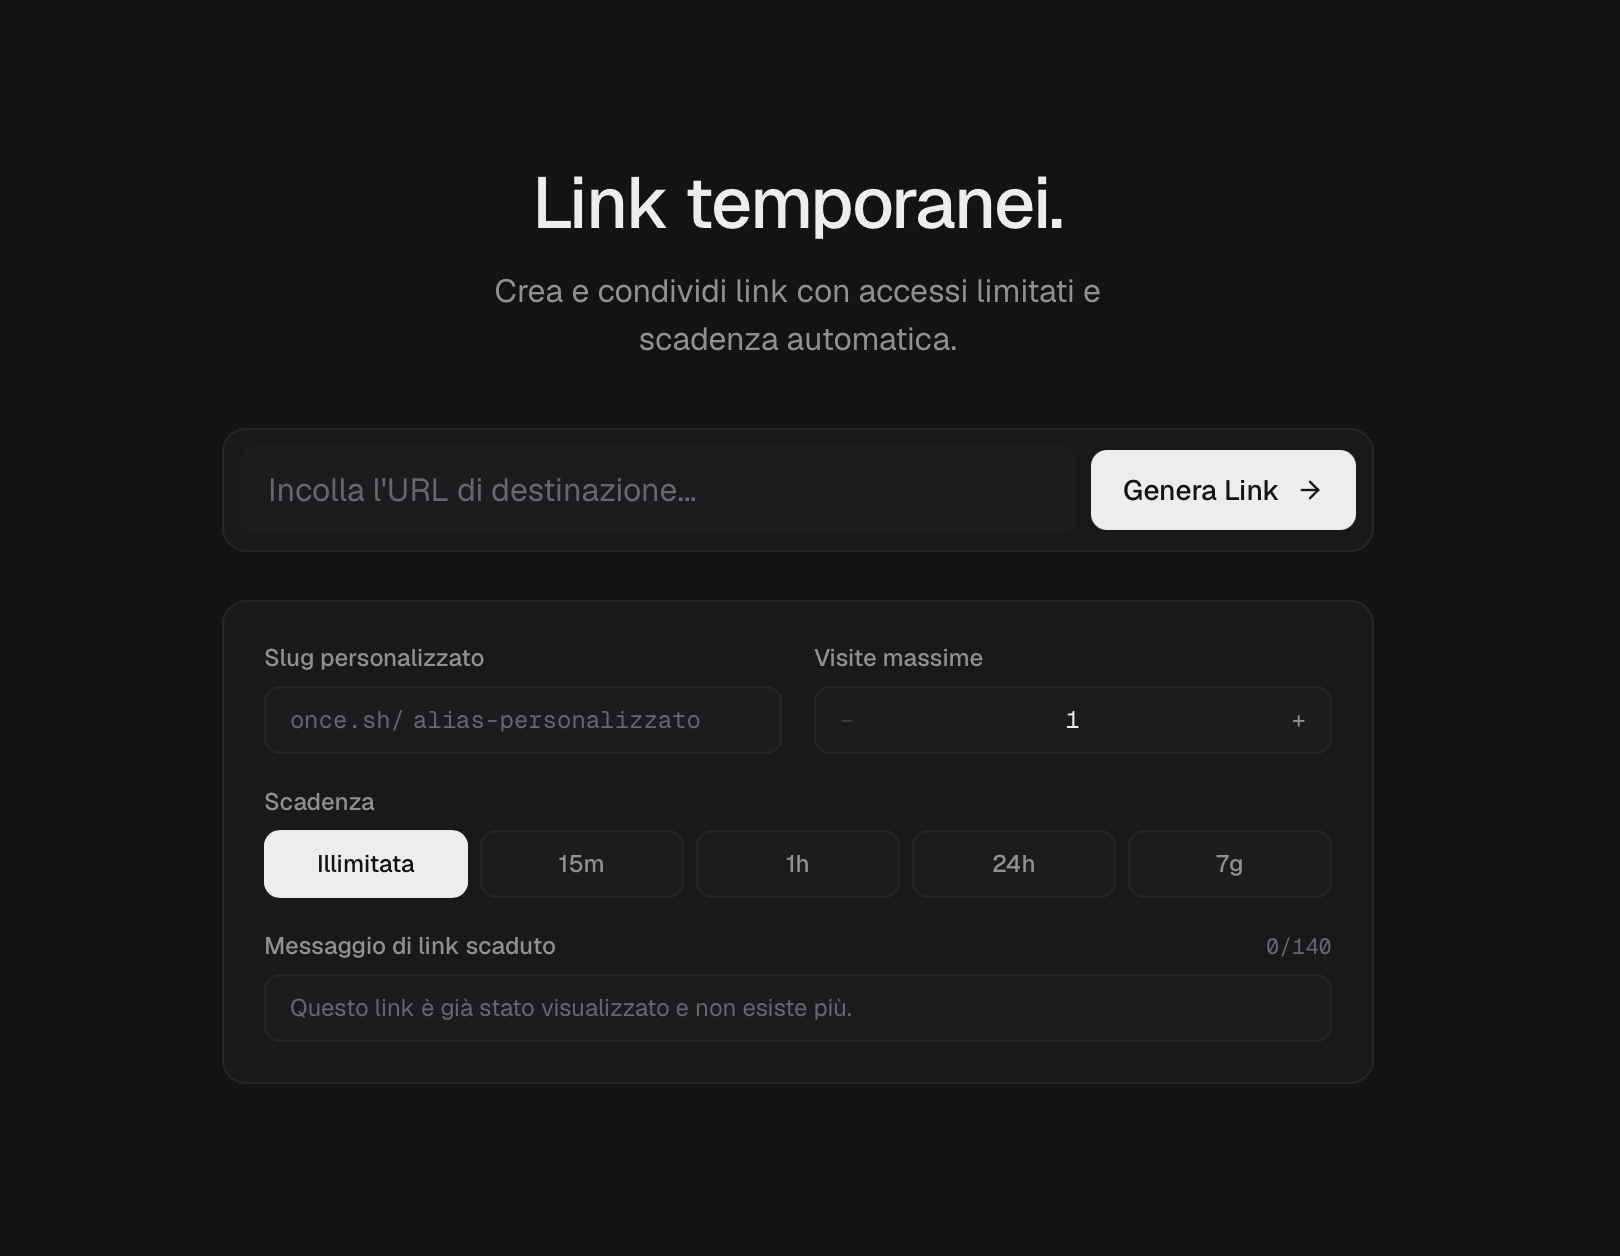
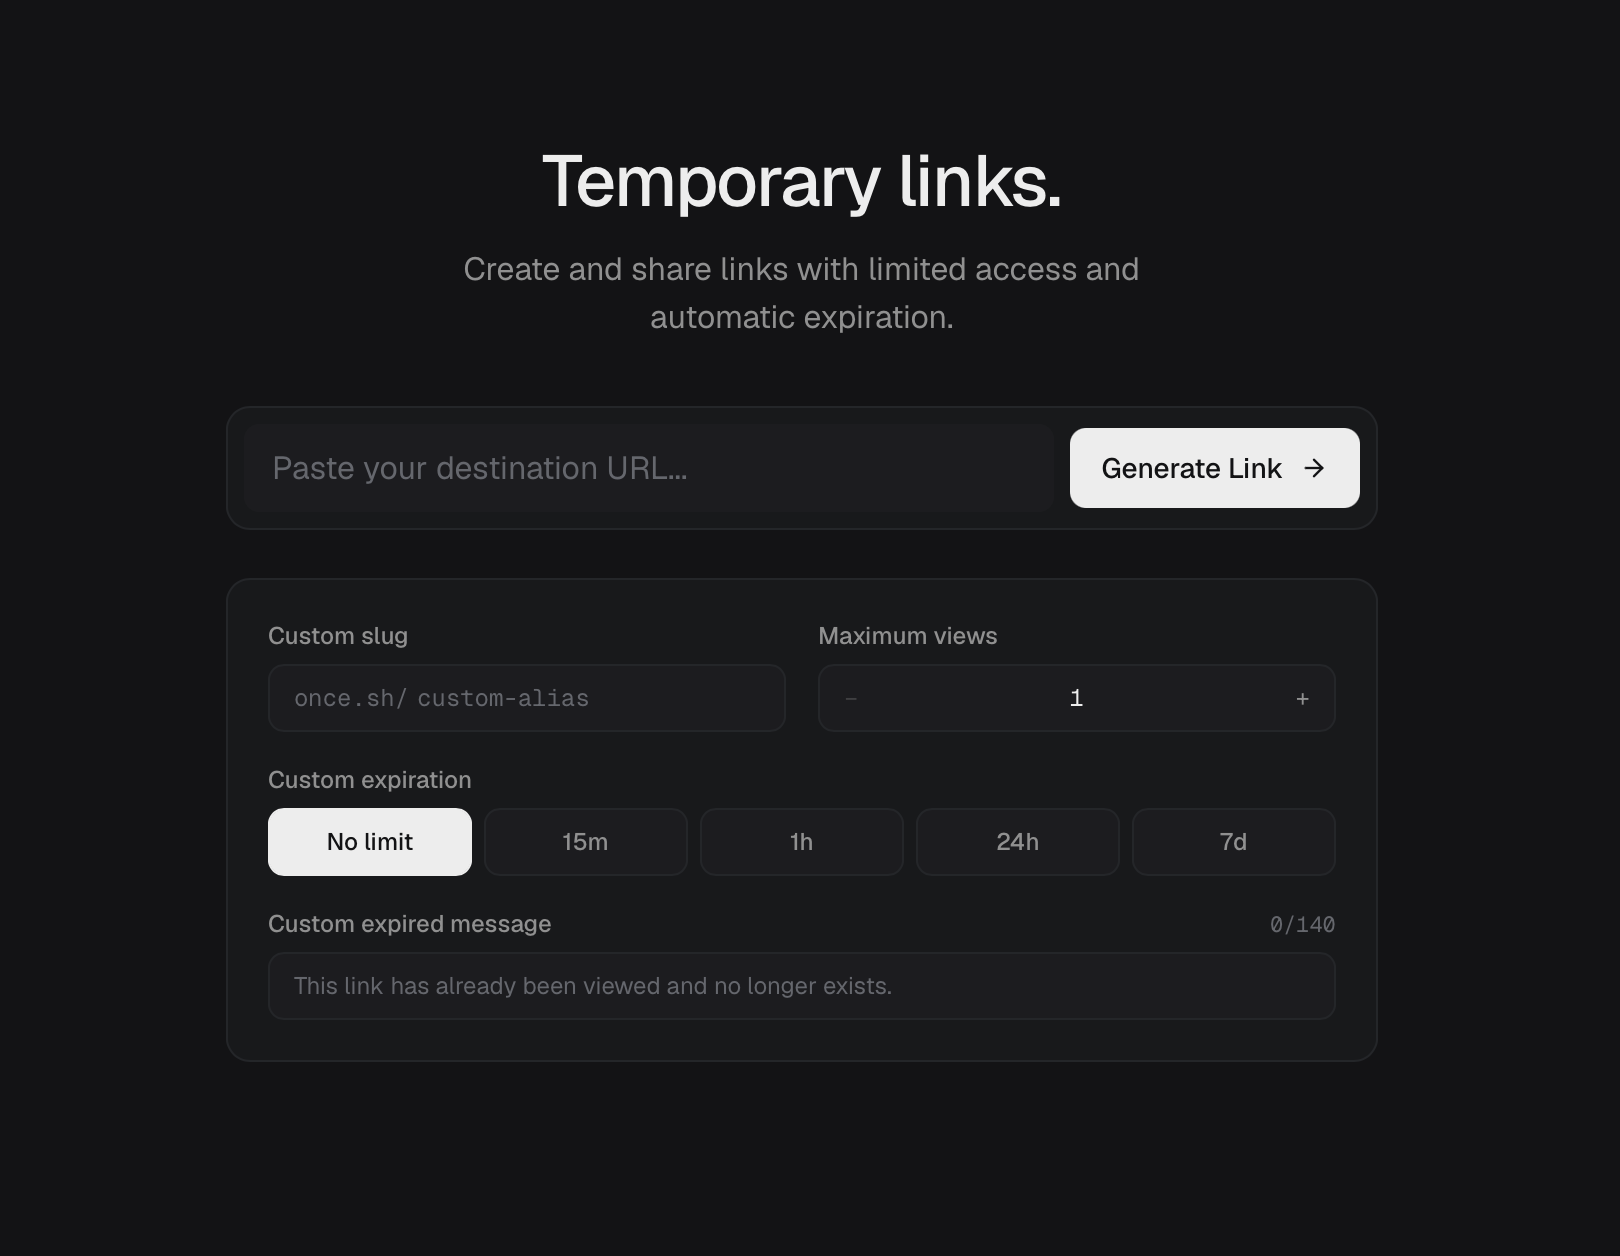
docs: finalize ONCE README and screenshots

diff --git a/README.md b/README.md
@@ -1,58 +1,48 @@
 # ONCE
 
-Not everything we share needs to stay available forever.
+[oncetool.it](https://oncetool.it/)
 
-ONCE is an open-source platform designed to make sharing temporary, simple and secure.
+ONCE was built for those who understand that information doesn’t need to exist forever. A tool for temporary communication, controlled access and reduced digital exposure.
 
-No accounts. No subscriptions. No unnecessary complexity.
+No accounts. No identities required. No unnecessary records.
 
-Visit:        >>>>>>>>>> https://oncetool.it/ <<<<<<<<<<
-
-## SECRETS
+## 01 — SECRETS
 
 ![SECRETS](app/docs/screenshots/hero-secrets-dark.png)
 
-Share a message. Let it be read once.
+SECRETS allows you to transmit private text messages protected by client-side encryption. Messages are encrypted in your browser before reaching our infrastructure. The decryption key remains in the link fragment and is never transmitted to our servers.
 
-SECRETS lets you share private text messages that become inaccessible after their first successful opening.
+Operational capabilities
 
-Every message is encrypted directly in your browser before being sent to the server. The decryption key is contained in the link itself and never reaches the server.
+- End-to-end encryption using AES-256-GCM.
+- Optional password protection.
+- Configurable expiration.
+- Single-use message retrieval.
+- Atomic consumption after the first successful opening.
 
-You can:
-- Create encrypted messages without an account.
-- Protect messages with an additional password.
-- Set an expiration time.
-- Share a unique link with the recipient.
-- Allow only one successful reading.
+Once consumed, the encrypted content is overwritten in the database and cannot be retrieved through the application again.
 
-Once opened, the encrypted content is consumed atomically and cannot be retrieved again.
-
-## LINK
+## 02 — LINK
 
 ![LINK](app/docs/screenshots/hero-links-dark.png)
 
-Share a link. Control how long it lasts.
+Control access. Control time.
 
-LINK lets you turn any destination URL into a temporary, shareable link.
+Not every destination needs to remain reachable indefinitely.
 
-Instead of sharing a permanent URL, you decide how long the generated link remains accessible.
+LINK creates temporary access points to existing URLs, allowing you to determine when and how access ends.
 
-You can:
-- Set a maximum number of visits.
-- Choose an expiration time or keep the link active indefinitely.
-- Create custom URLs with your own slug.
-- Define a custom message to display when the link expires or reaches its access limit.
+Operational capabilities
 
-Each visit is counted atomically, ensuring that concurrent requests cannot exceed the configured access limit.
+- Configurable access limits.
+- Automatic expiration.
+- Custom URL slugs.
+- Custom expiration messages.
+- Atomic access counting.
 
-## Why ONCE?
+When the configured conditions are met, the link stops redirecting.
 
-The internet tends to make everything permanent.
-ONCE takes a different approach: share what you need, for as long as you need it.
+Privacy is not a promise of invisibility.  
+It is the deliberate reduction of unnecessary exposure.
 
-No accounts. No subscriptions. No advertising.
-Just two tools built around temporary sharing.
-
-## Open source
-
-ONCE is open source and released under the GNU AGPL-3.0 license.
+## OPEN SOURCE — GNU AGPL-3.0
